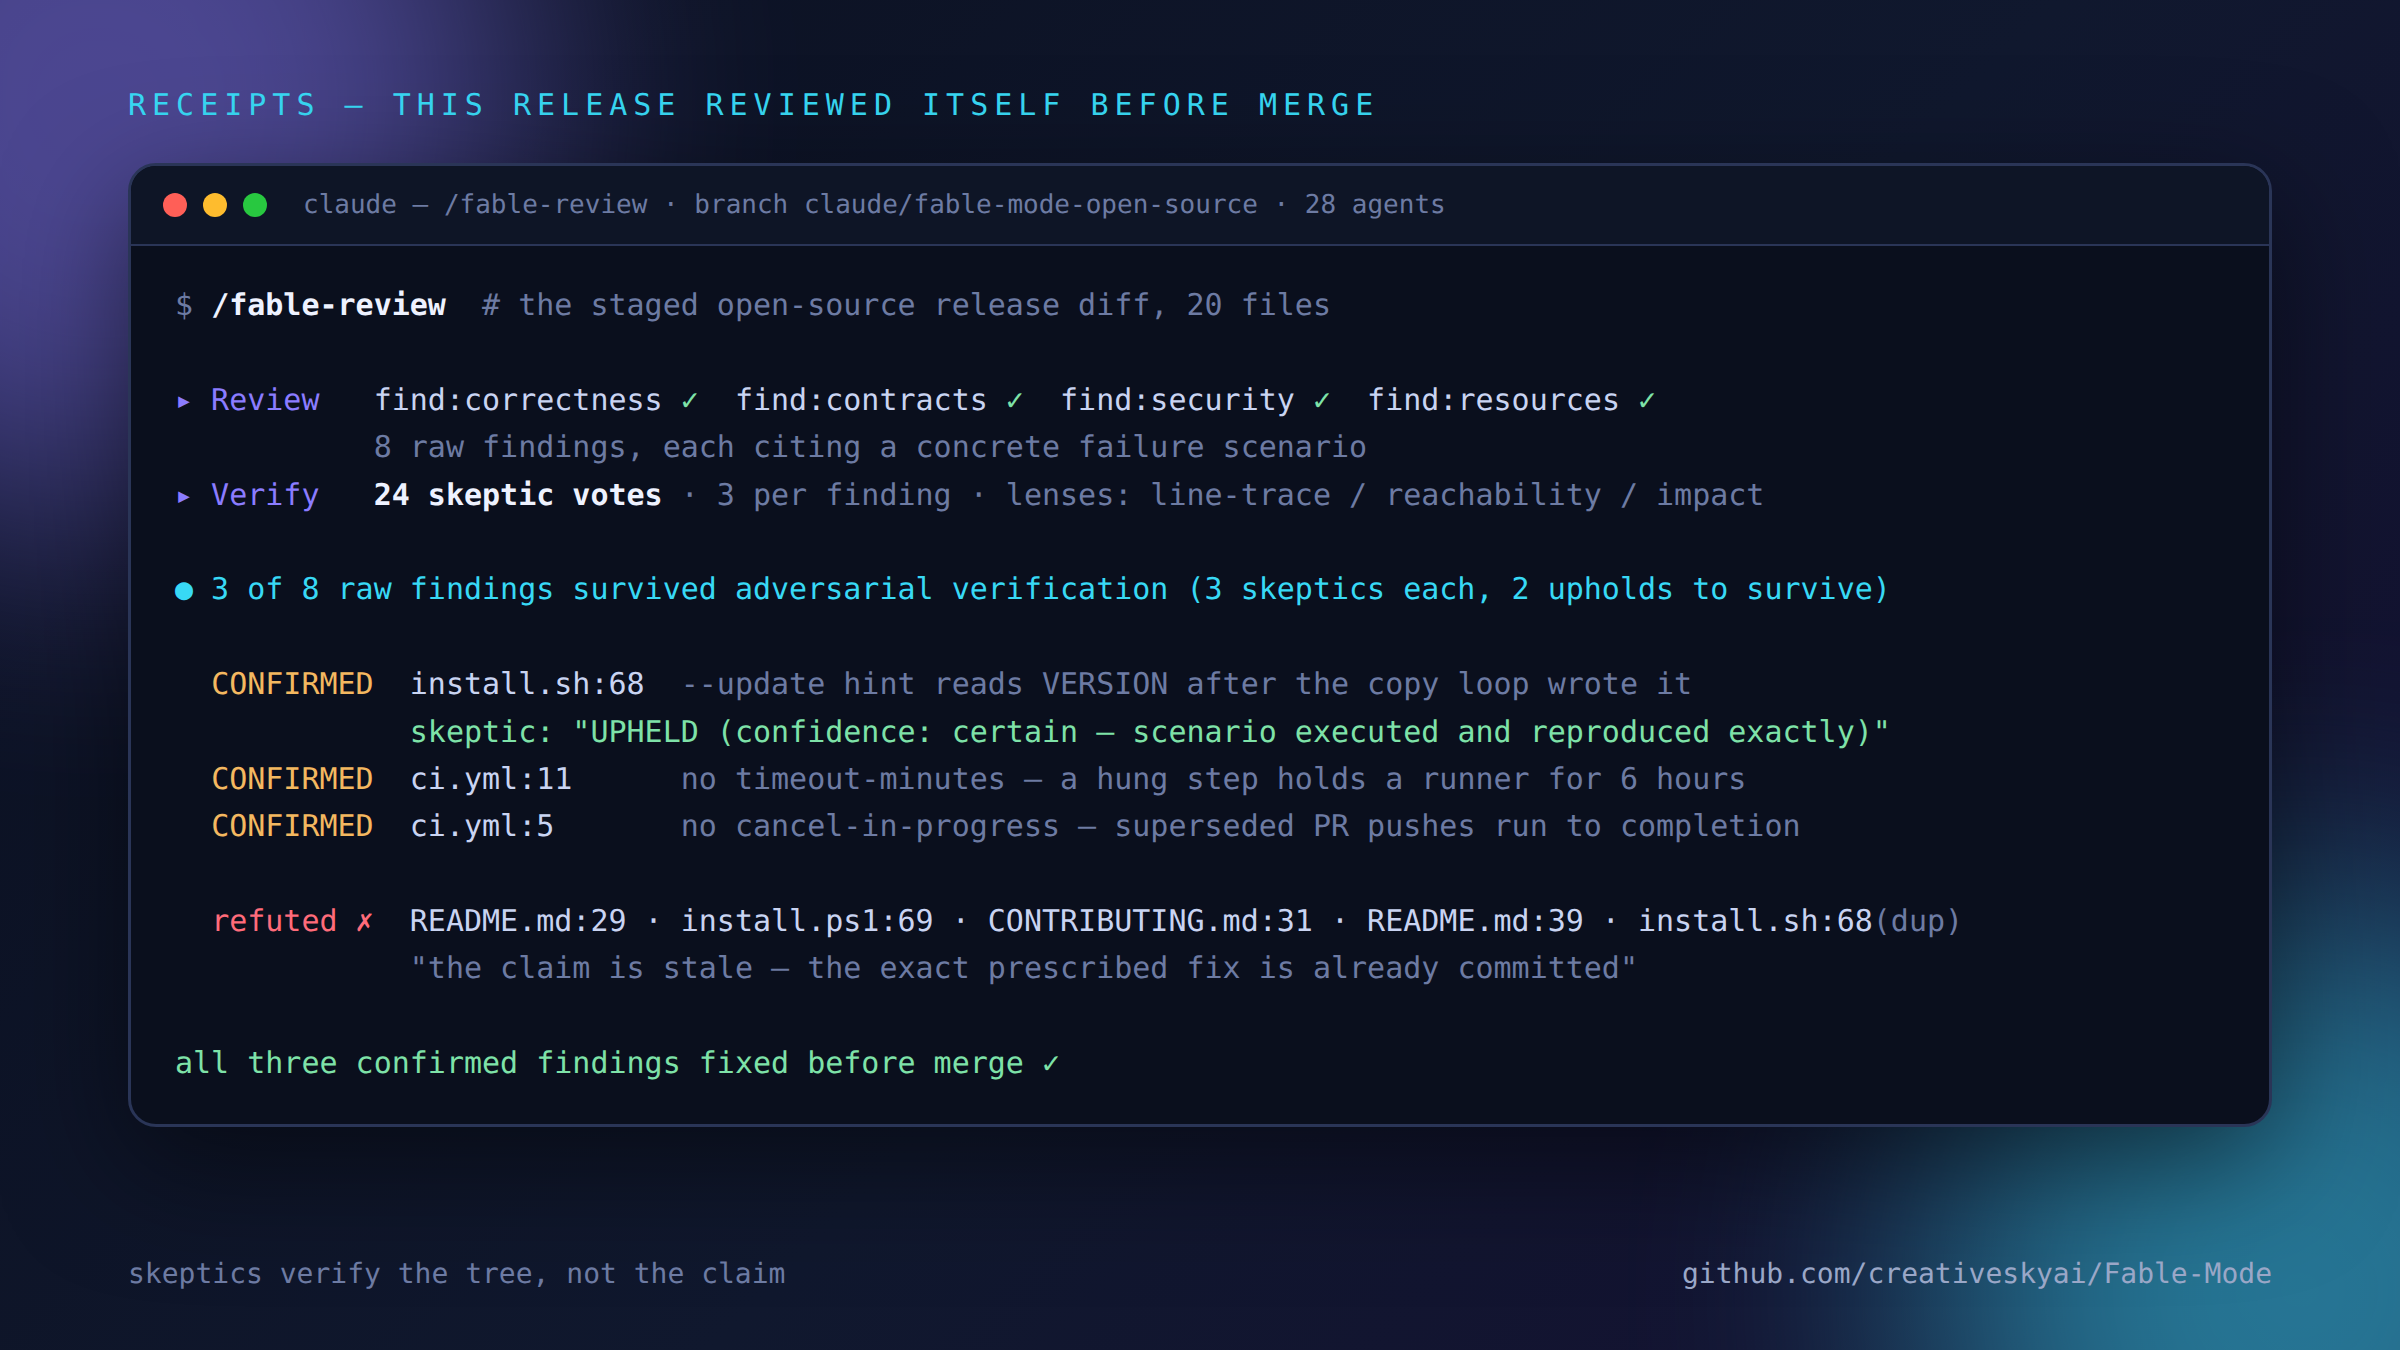
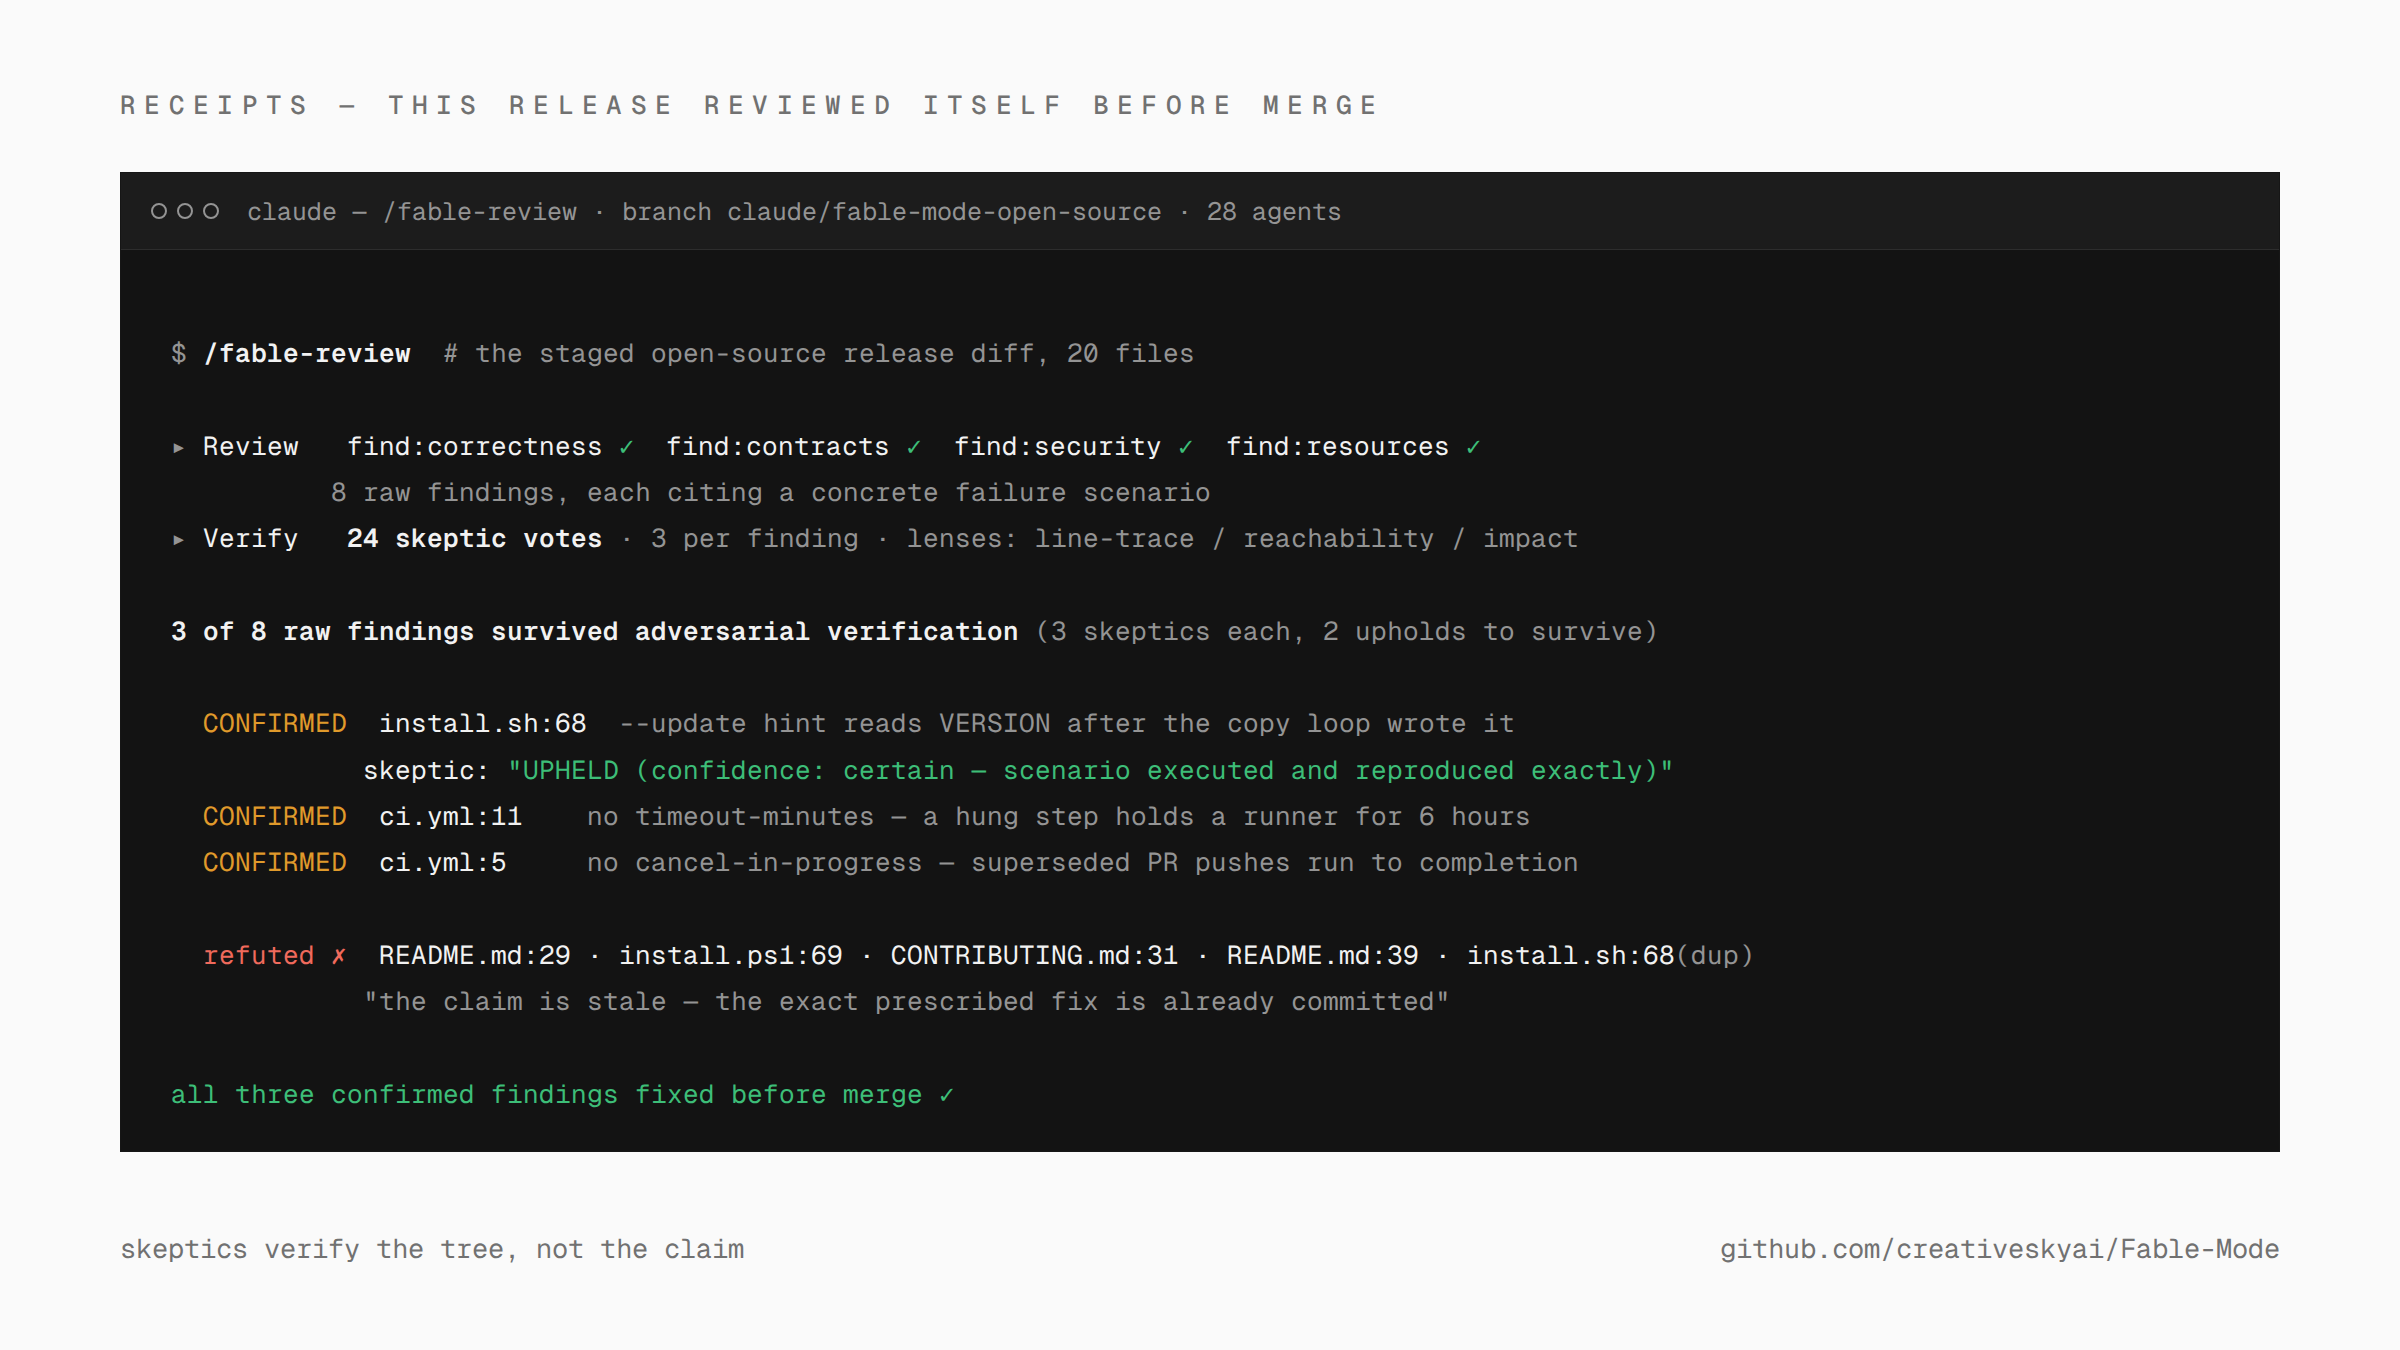
Refresh visual assets with monochrome ink-on-paper artwork
Rebuild the README banner, review-pipeline diagram, demo-review terminal,
and social preview in a single cohesive visual language: paper background,
hairline borders, sharp corners, Space Grotesk display with Geist Mono,
and status colors reserved for state. The banner moves from SVG to PNG so
the custom typefaces render identically everywhere.

Claude-Session: https://claude.ai/code/session_01TypeBzEBduy1gKjoWaGBrR

diff --git a/README.md b/README.md
@@ -1,6 +1,6 @@
 <div align="center">
 
-<img src="assets/banner.svg" alt="Fable Mode — Fable 5's Ultracode discipline, ported to the models you can run all day" width="100%">
+<img src="assets/banner.png" alt="Fable Mode — Fable 5's Ultracode discipline, ported to the models you can run all day" width="100%">
 
 [![CI](https://github.com/creativeskyai/Fable-Mode/actions/workflows/ci.yml/badge.svg?branch=main)](https://github.com/creativeskyai/Fable-Mode/actions/workflows/ci.yml)
 [![License: MIT](https://img.shields.io/badge/license-MIT-3da638)](LICENSE)